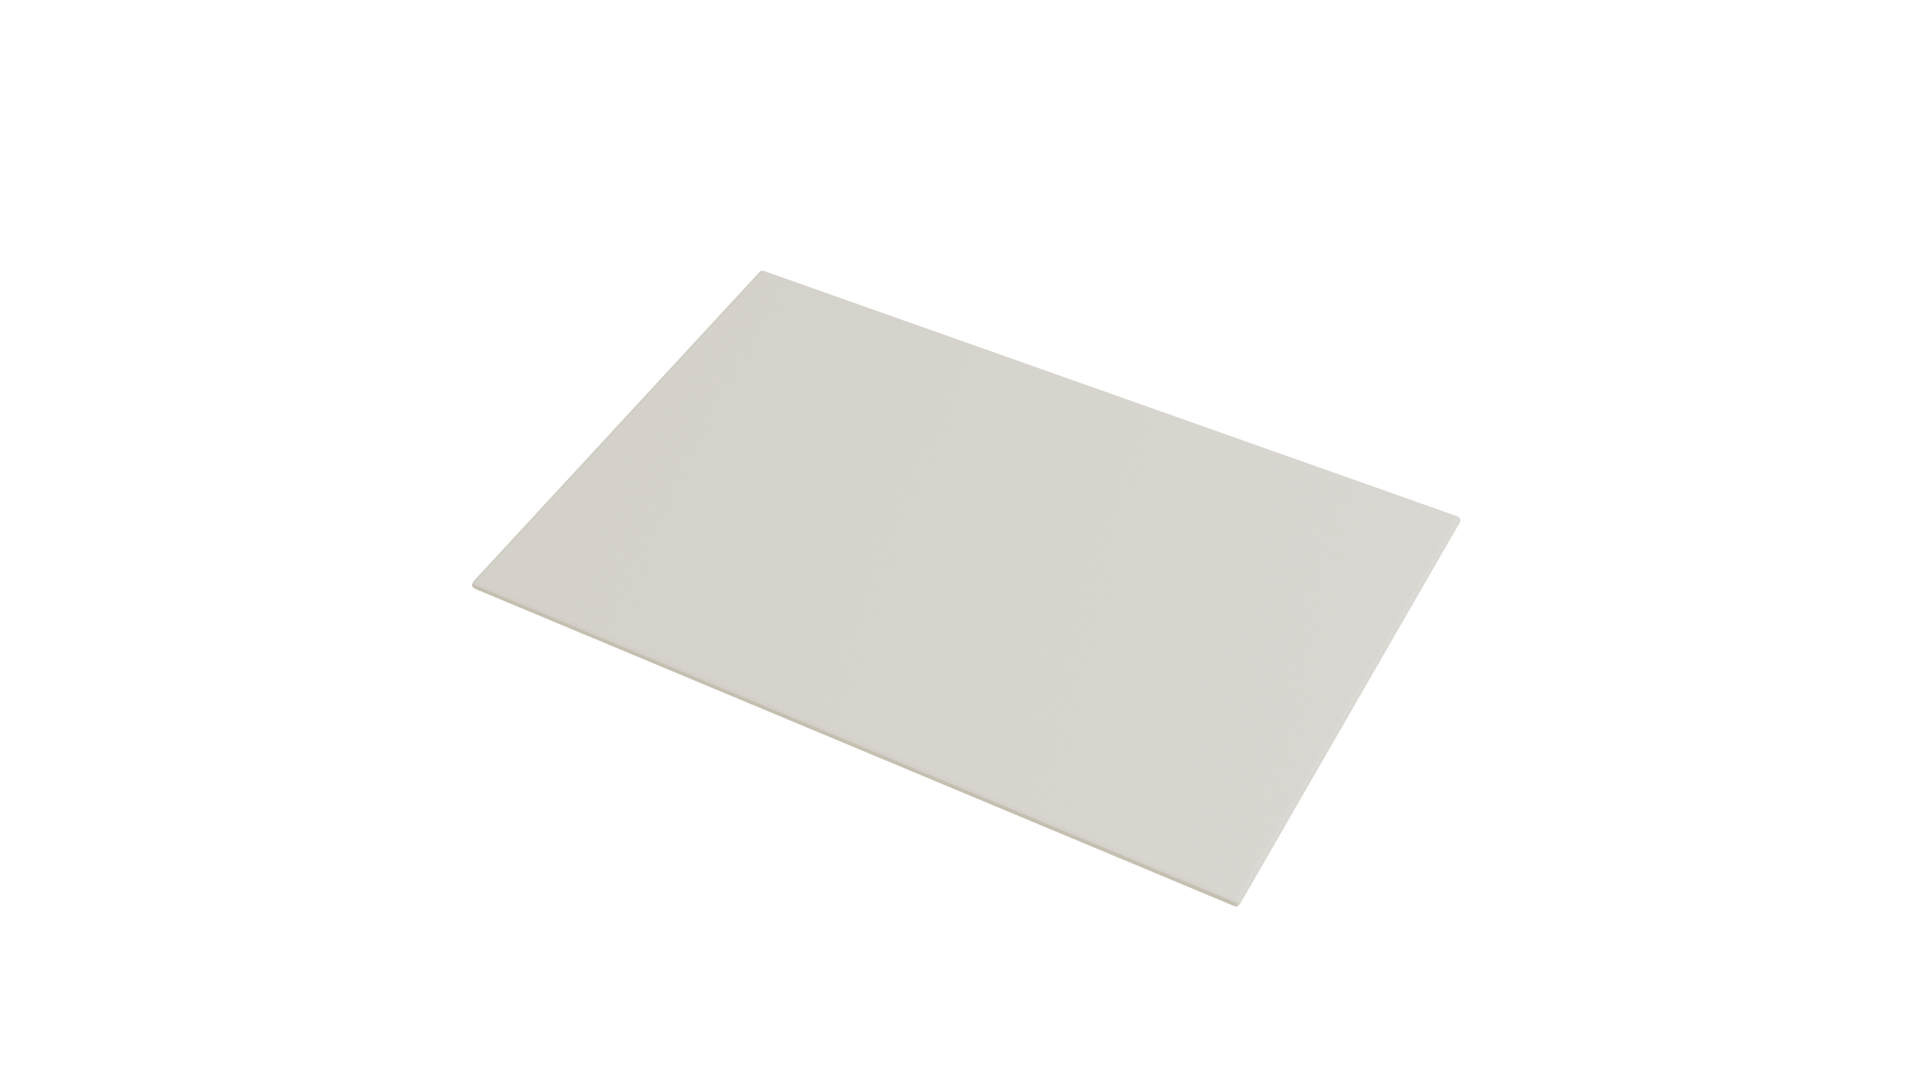
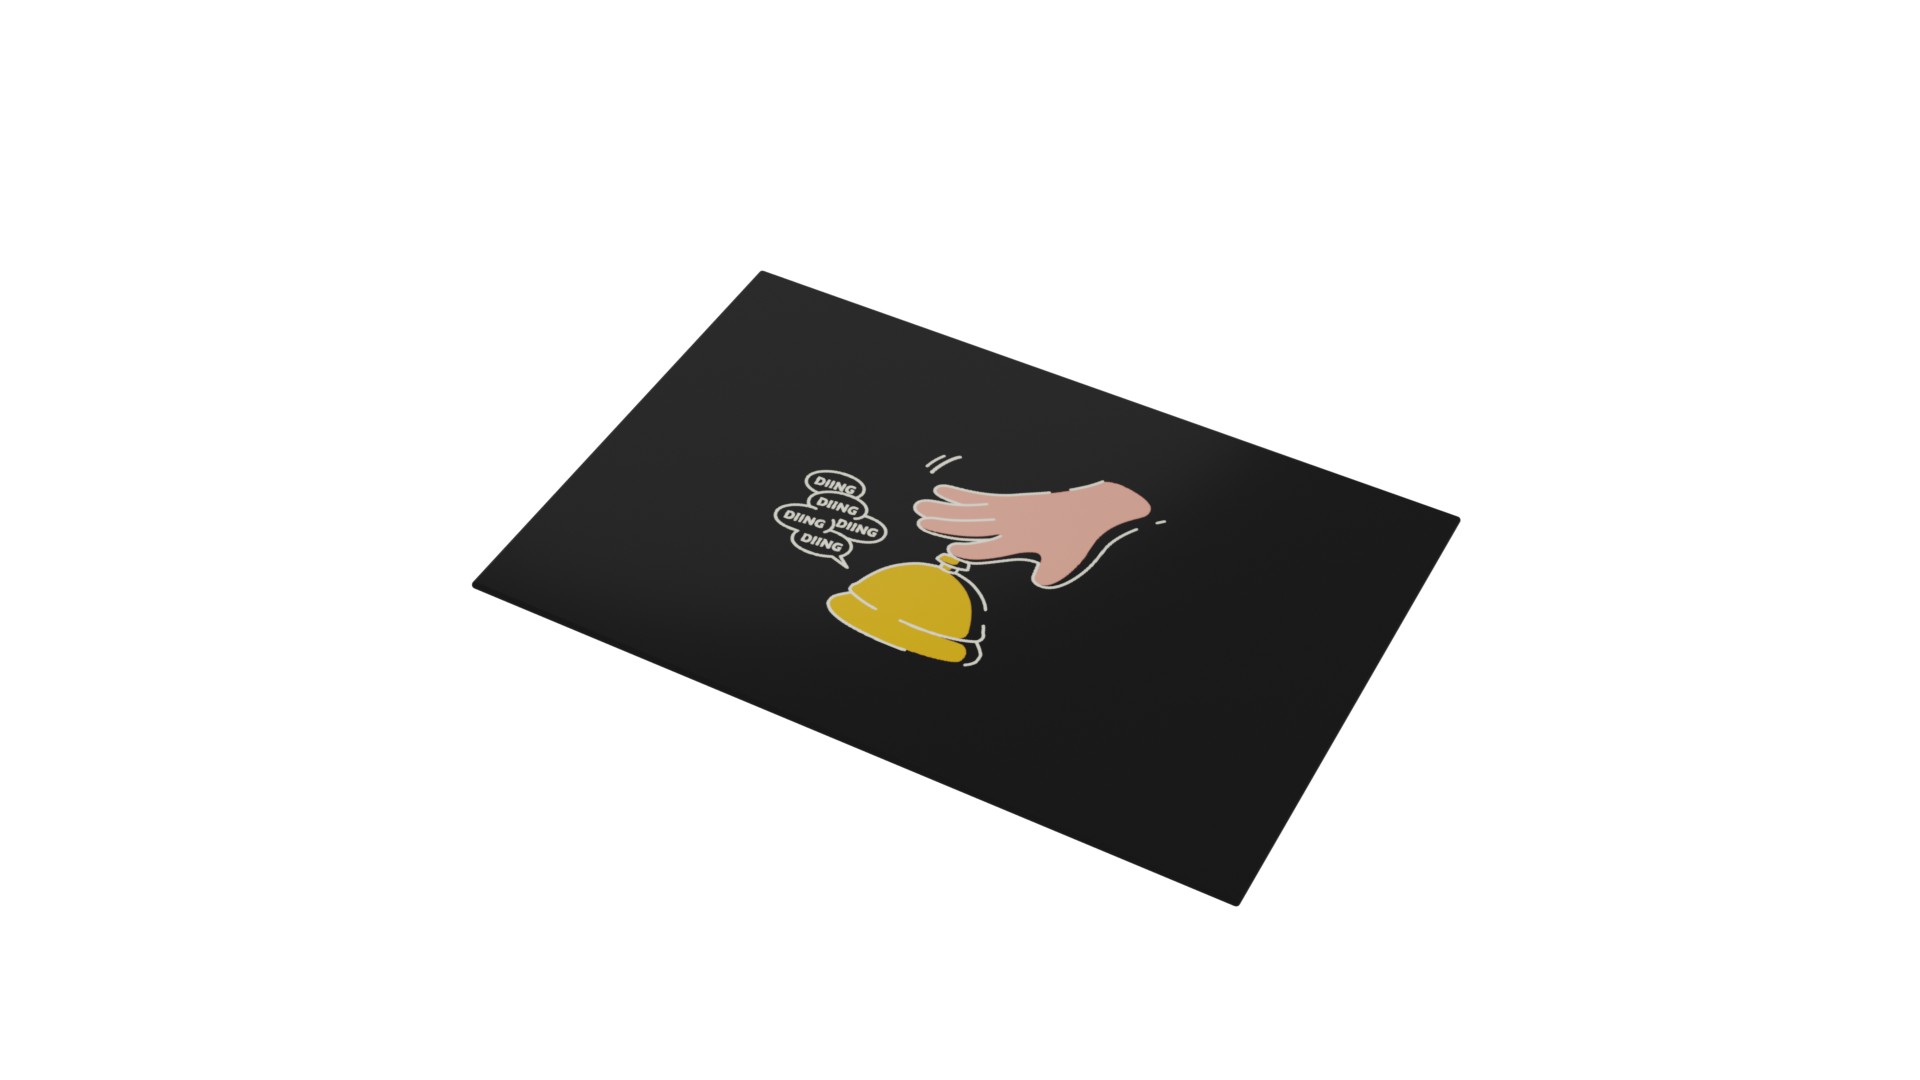
Dark mode

Changed region(s): [[0.25, 0.2444, 0.7812, 0.8556]]

diff --git a/src/App.tsx b/src/App.tsx
@@ -17,17 +17,18 @@ function Page() {
   return (
     <section>
       <article className="container">
-        <header className="row">
-          <h2>Select a Mode</h2>
+        <header className="row instruction">
+          <h2>Select a Scan Media</h2>
+          <p>Choose what kind of media you are going to scan, someone wearing DiingT Vol. 5 or the card.</p>
         </header>
         <ul className="buttons row d-flex flex-row">
           <li>
-            <a rel="ar" className="button-ar" href="/dt5/dt5_t.usdz#custom=https://shop.diing.com&customHeight=small">
+            <a rel="ar" className="button-ar" id="button-ar-tshirt" href="/dt5/dt5_t.usdz#custom=https://shop.diing.com&customHeight=small">
               <img src={tshirt} alt="DiingT Vol.5 on T-Shirt" />
             </a>
           </li>
           <li>
-            <a rel="ar" className="button-ar" href="/dt5/dt5_c.usdz#custom=https://shop.diing.com&customHeight=small">
+            <a rel="ar" className="button-ar" id="button-ar-card" href="/dt5/dt5_c.usdz#custom=https://shop.diing.com&customHeight=small">
               <img src={card} alt="DiingT Vol.5 on Card" />
             </a>
           </li>

diff --git a/src/index.css b/src/index.css
@@ -1,6 +1,8 @@
 html, body {
   width: 100%;
   height: 100%;
+  background: #000000;
+  color: white;
 }
 
 body {
@@ -26,16 +28,20 @@ h1 {
 
 .header {
   top: 0;
-  margin-bottom: 1rem;
-  box-shadow: 0 0 12px rgba(0, 0, 0, 0.14);
+  margin-bottom: 2rem;
+  border-bottom: 0.5px solid rgba(133, 71, 231, 0.28);
   padding: 1.2rem 0.75rem;
   position: sticky;
-  background: white;
+  background: #0f080f;
+}
+
+.instruction p {
+  color: rgba(255, 255, 255, 0.48);
 }
 
 ul.buttons {
   list-style: none;
-  padding: 0 0.5rem 1rem;
+  padding: 0.5rem 0.5rem 1rem;
 }
 
 ul.buttons li {
@@ -43,10 +49,12 @@ ul.buttons li {
 }
 
 a.button-ar {
-  border: 1px solid rgba(0, 0, 0, 0.18);
+  border: 1px solid #222222;
   display: block;
   border-radius: 4px;
   transition: all 0.6s linear;
+  background: rgba(255, 255, 255, 0.05) center center no-repeat;
+  background-size: 100% auto;
 }
 
 a.button-ar:hover {
@@ -56,4 +64,13 @@ a.button-ar:hover {
 
 .button-ar img {
   max-width: 100%;
+  visibility: hidden;
+}
+
+#button-ar-tshirt {
+  background-image: url("./assets/images/tshirt.png");
+}
+
+#button-ar-card {
+  background-image: url("./assets/images/card.png");
 }
